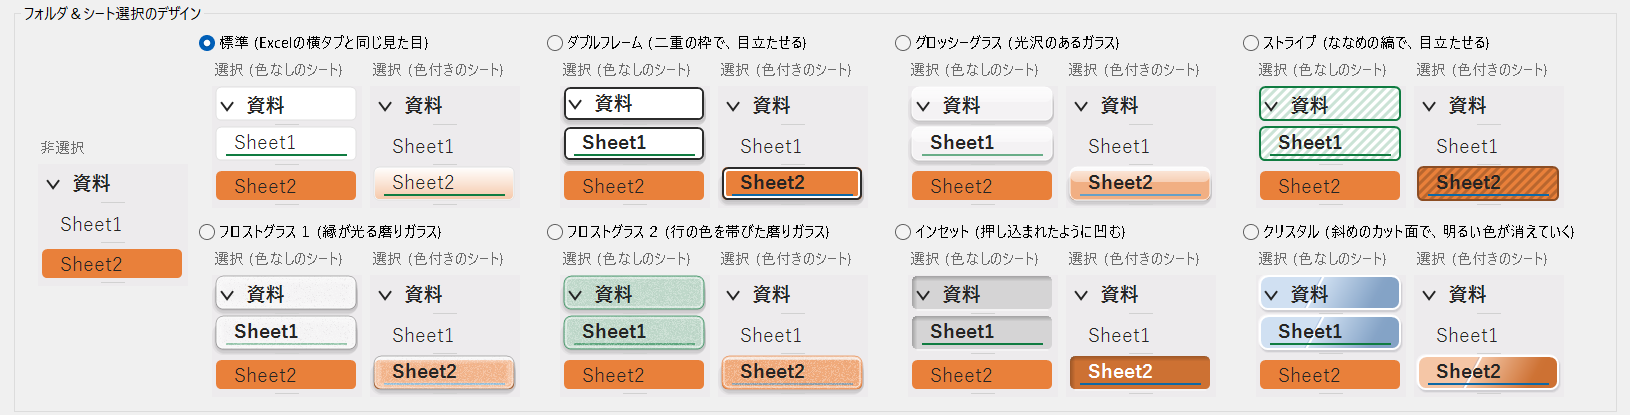
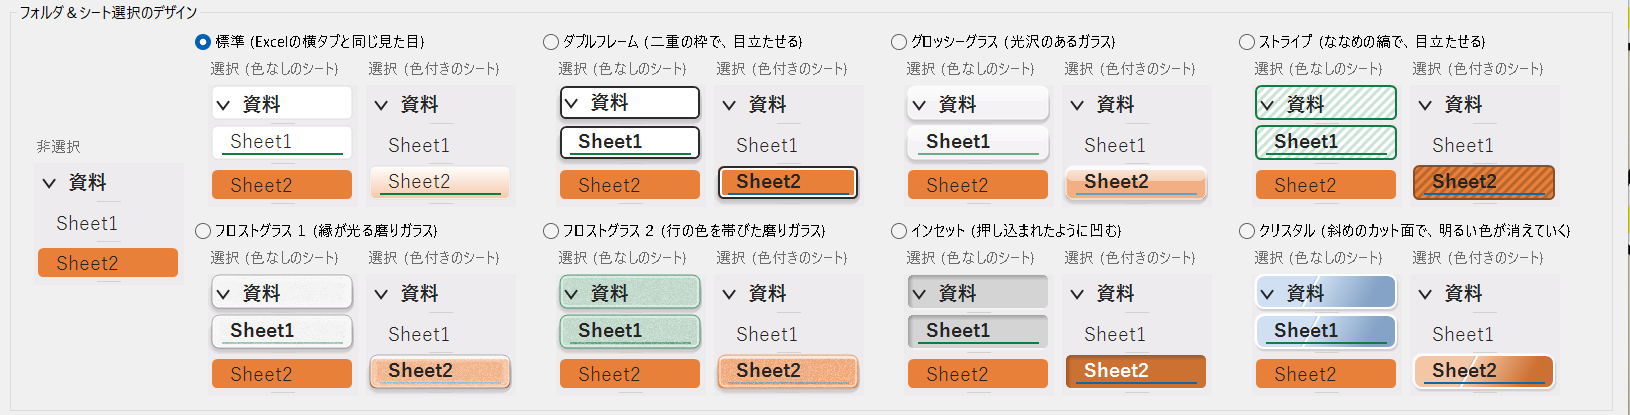
README.md を、いまのアドインの動作に合わせて直す、設定画面の画像を撮り直す

diff --git a/README.md b/README.md
@@ -8,9 +8,9 @@
 > 右がアドインを入れたExcel。12枚のシートが一目で見渡せ、「売上」「経費」のフォルダで整理され、シート見出しの色も、そのまま見えます。
 
 - **一覧できる** … シート名がずらりと縦に並ぶ。もう、横スクロールの矢印を何度も押さなくていい
-- **整理できる** … シートを**フォルダ**にまとめられる。並びは、Excelのシートの並びにも反映
+- **整理できる** … シートを**フォルダ**にまとめられる。並びは、Excelのシートの並びにも反映。縦タブの上端の「全開」「全閉」で、フォルダをまとめて開閉
 - **いつもの操作** … クリック、ドラッグ、Ctrl+ドラッグでコピー、右クリックメニュー、シート見出しの色まで、横タブと同じ
-- **選べる見た目** … 8つの選択デザインと、5つのアクティブシートの印。ガラスのような透け感の選択表示も
+- **選べる見た目** … 8つの選択デザインと、5つのアクティブシートの印。ガラスのような透け感の選択表示も。選んだシートや、開閉したフォルダが、ぷるっと揺れるアニメーションも (初期値は、なし)
 - **ブックごとに設定** … 縦タブを使うブックだけ、使える。設定は、ブックと一緒に保存される
 
 開発の経緯、仕様、検証結果は、ソースのリポジトリの `Agents.md` に、ビルドやインストーラの作成 (開発者向け) は、`DEVELOPMENT.md` にまとめています。
@@ -50,9 +50,9 @@
 |---|---|
 | **表示モード** | 横タブだけ / 縦タブだけ / 両方 ([1.3](#13-表示モードで画面がこう変わる)) |
 | **縦タブの位置** | 画面の左 / 右 |
-| **開閉したフォルダ＆選択したシートのアニメーション** | シートを選ぶと、そのシートが揺れる。フォルダを開閉すると、そのフォルダも同じように揺れる (開いたときは、中のシートも一斉に揺れる)。6種類の動き (シェイク / ウォブル / ジェリー / バウンス / パルス / スイング) とランダム、揺れの大きさと長さを選べる (初期値は、なし) |
-| **アクティブシートのマーカー表示** | 今開いているシートの印。下線 / 三角 / 両端バー / なし ([1.5](#15-選択中のフォルダとシートの見た目を選ぶ)) |
+| **アクティブシートのマーカー表示** | 今開いているシートの印。下線 / 三角 / 両端バー / チェックバッジ / なし ([1.5](#15-選択中のフォルダとシートの見た目を選ぶ)) |
 | **フォルダ＆シート選択のデザイン** | 選択中のフォルダとシートの見た目を、8種類から。**サンプルが、その場で見える** ([1.5](#15-選択中のフォルダとシートの見た目を選ぶ)) |
+| **開閉したフォルダ＆選択したシートのアニメーション** | シートを選ぶと、そのシートが揺れる。フォルダを開閉すると、そのフォルダも同じように揺れる (開いたときは、中のシートも一斉に揺れる)。6種類の動き (シェイク / ウォブル / ジェリー / バウンス / パルス / スイング) とランダム、揺れの大きさと長さを選べる (初期値は、なし。[8章](#8-設定画面)) |
 | **フォルダを囲む点線** | 開いたフォルダを囲む点線の、表示 / 非表示と、色の濃さ (9段階) |
 | **シート名のルール** | 「フォルダ名 \| シート名」の名前で、フォルダを自動で作る ([1.6](#16-シート名だけでフォルダを共有する-シート名のルール)) |
 
@@ -83,6 +83,7 @@
 - フォルダにも**色**が付けられます。「中の全てを常にフォルダと同一色に設定」をONにすると、フォルダの色が、中のシートにも広がり、新しく入ったシートにも、自動で付きます
 - 「フォルダ内のシートをすべて選択」で、フォルダ内のシートを、グループ選択。そのまま、まとめて保護、移動、コピーができます
 - フォルダの順序は、Excelのシートの並びにも反映されます (横タブでも、同じ順に並びます)
+- フォルダが**1つでもある**と、縦タブの上端に「**全開**」「**全閉**」のボタンが出ます。押すと、すべてのフォルダが、まとめて開く / 閉じます。フォルダが無くなると、ボタンも消えます
 
 ### 1.5 選択中のフォルダとシートの見た目を選ぶ
 
@@ -92,20 +93,20 @@
 
 | 選択デザイン | 特長 |
 |---|---|
-| **標準** | Excelの横タブと同じ見た目 (白い塗りと緑の下線) |
+| **標準** | Excelの横タブと同じ見た目 (白い塗り。下線マーカーのときは、アクティブなシートに緑の下線) |
 | **ダブルフレーム** | 暗い外枠と白い内枠の二重の枠と、影。くっきり目立つ |
 | **グロッシーグラス** | 上半分に反射の帯がある、光沢のあるガラス |
 | **フロストグラス1** | 縁が内側から光る、磨りガラス |
 | **フロストグラス2** | 行の色を帯びた、磨りガラス |
 | **インセット** | 押し込まれたように凹んで見える |
-| **ストライプ** | ななめの縞と、緑の枠 (色付きの行は、白い縞と、濃い枠) |
+| **ストライプ** | ななめの縞と、緑の枠 (色付きの行は、その色の濃い枠。縞は、明るい色の行では暗い縞、暗い色の行では白い縞) |
 | **クリスタル** | 斜めのカットで、明るい面と濃い面に分かれ、明るい色が右へ消えていく。柔らかい影つき |
 
 さらに、**今、内容が表示されているシート (アクティブなシート)** の印も、5種類から選べます。どの選択デザインとも組み合わせられます。
 
 ![5つのマーカー: 下線、三角、両端バー、チェックバッジ、なし](docs/images/markers.png)
 
-> 三角や帯の色は、その行の色の**反対色**で、白い縁取りとぼかしが付くので、暗い背景でも、色付きの行でも、見失いません。
+> 三角や帯の色は、その行の色の**反対色**で、白い縁取りとぼかしが付くので、暗い背景でも、色付きの行でも、見失いません。マーカーの色が、その行の色に近くて見分けにくいときは、見分けやすい色に自動で調整されます。マーカーが付くのは、アクティブなシートだけです (フォルダと、グループ選択のほかのシートには付きません)。
 
 設定画面のこの部分で、サンプルを見ながら選べます (サンプルをクリックしても選べます)。
 
@@ -139,7 +140,7 @@
 | 複数のシートを選ぶ | Ctrl+クリック、Shift+クリック |
 | シートをフォルダに入れる | 選んで、右クリック > 「新しいフォルダ」。または、既存のフォルダへドラッグ |
 | フォルダを開閉する | 行の先頭の `>` / `∨` |
-| 全フォルダを開閉する | フォルダの右クリック > 「全てのフォルダを閉じる / 開く」 |
+| 全フォルダを開閉する | 縦タブの上端の「全開」「全閉」ボタン (フォルダが1つ以上あるとき)、または、フォルダの右クリック > 「全てのフォルダを閉じる / 開く」 |
 | 見た目を変える | 「タブ表示の設定」の「選択デザイン」「マーカー」 |
 | 横タブに戻す | 縦タブの「×」、または、表示モードを「横タブのみ」に |
 
@@ -151,12 +152,13 @@
 |---|---|
 | 縦タブの表示 | シートを縦に並べて表示 / 左右どちらにも配置 / ペインの幅をドラッグで変更 (保存される) / シートが多いときは縦スクロール / 長い名前は「…」で省略、ポインターを乗せると全体を表示 |
 | 表示モード | 横タブのみ / 縦タブのみ / 両方 (ブックごとに選択) |
-| 見た目 | Excelの横タブと同じ色、形、シート見出しの色。選択中のフォルダとシートの見た目は、設定画面で、「標準」(Excelの横タブと同じ。白い塗りと薄い枠、アクティブなシートに緑の下線)、「ダブルフレーム」、「グロッシーグラス」(上半分に反射の帯がある、光沢のあるガラスを重ねる)、「フロストグラス１」(縁が内側から光る磨りガラスを、行の上に重ねる)、「フロストグラス２」(行の色 (色なしの行は緑) を帯びた磨りガラスを重ねる)、「インセット」(押し込まれたように凹んで見える)、「ストライプ」(ななめの縞と枠)、「クリスタル」(斜めのカット面と、消えていく明るい色) から選べる (初期値は、標準)。ガラスの選択肢では、行の色や区切り線が、ガラス越しに透けて見える。ダブルフレームでは、選択中の行は、(色付きは、元の色のまま) 影が付き、暗い外枠と白い内枠の二重の枠で囲まれ、文字が太字になる。シートの内容が表示されている、アクティブなシートの印 (マーカー) は、設定画面の「アクティブシートのマーカー表示」で、下線マーカー (名前の下に線)、三角マーカー (左右の端に小さな三角)、両端バーマーカー (左右の端に太い帯)、チェックバッジマーカー (名前の左に丸いチェック)、マーカーなし から選べ (初期値は、下線マーカー)、どの選択デザインとも組み合わせて表示される (フォルダと、グループの、ほかのシートには付かない)。三角は、その行の色の反対色 (色相環で、最も色差が大きい色) で、白い縁取りとぼかしが付き、暗い背景や暗い色の行でも見える。Officeテーマ (カラフル、白、黒、ダークグレー) と画面の拡大率に対応 |
+| 見た目 | Excelの横タブと同じ色、形、シート見出しの色。選択中のフォルダとシートの見た目は、設定画面で、「標準」(Excelの横タブと同じ。白い塗りと薄い枠、アクティブなシートに緑の下線)、「ダブルフレーム」、「グロッシーグラス」(上半分に反射の帯がある、光沢のあるガラスを重ねる)、「フロストグラス１」(縁が内側から光る磨りガラスを、行の上に重ねる)、「フロストグラス２」(行の色 (色なしの行は緑) を帯びた磨りガラスを重ねる)、「インセット」(押し込まれたように凹んで見える)、「ストライプ」(ななめの縞と枠)、「クリスタル」(斜めのカット面と、消えていく明るい色) から選べる (初期値は、標準)。ガラスの選択肢では、行の色や区切り線が、ガラス越しに透けて見える。ダブルフレームでは、選択中の行は、(色付きは、元の色のまま) 影が付き、暗い外枠と白い内枠の二重の枠で囲まれ、文字が太字になる。シートの内容が表示されている、アクティブなシートの印 (マーカー) は、設定画面の「アクティブシートのマーカー表示」で、下線マーカー (名前の下に線)、三角マーカー (左右の端に小さな三角)、両端バーマーカー (左右の端に太い帯)、チェックバッジマーカー (名前の左に丸いチェック)、マーカーなし から選べ (初期値は、下線マーカー)、どの選択デザインとも組み合わせて表示される (フォルダと、グループの、ほかのシートには付かない)。三角は、その行の色の反対色 (色相環で、最も色差が大きい色) で、白い縁取りとぼかしが付き、暗い背景や暗い色の行でも見える。マーカーの色が、行の色に近いときは、色差が大きくなるように、自動で調整される。Officeテーマ (カラフル、白、黒、ダークグレー) と画面の拡大率に対応 |
 | シートの操作 | 切り替え / 追加 (+) / 挿入 / 削除 / 名前の変更 / 移動 / コピー / 非表示 / 再表示 / シートの保護 / コードの表示 / シート見出しの色 |
 | 複数選択 | Ctrl+クリック、Shift+クリックで、グループ選択。グループのまま、移動、コピー、色の変更、非表示、削除 |
-| フォルダ | シートを1段のフォルダに分類 / 開閉 / 名前、色 / ドラッグで移動、コピー / フォルダごとの一括操作。並びは、横タブにも反映 |
+| フォルダ | シートを1段のフォルダに分類 / 開閉 / 名前、色 / ドラッグで移動、コピー / フォルダごとの一括操作 / 縦タブの上端の「全開」「全閉」ボタン (フォルダが1つ以上あるとき)。並びは、横タブにも反映 |
 | シート名のルール | 横タブのシート名「A &#124; B」を、縦タブでは、フォルダ A の中のシート B として表示 (使う/使わないを選択) |
-| 設定画面 | 表示モード、縦タブの位置、フォルダ＆シート選択のデザイン、シート名のルール、フォルダを囲む点線 (表示/非表示、色の濃さ) |
+| アニメーション | シートを選んだとき、フォルダを開閉したときに、その行が揺れる。6種類の動きとランダム、揺れの大きさ、長さ (ブックごとに選択。初期値は、なし) |
+| 設定画面 | 表示モード、縦タブの位置、アクティブシートのマーカー表示、フォルダ＆シート選択のデザイン、アニメーション、フォルダを囲む点線 (表示/非表示、色の濃さ)、シート名のルール |
 | 設定の保存 | ブックごとに保存して、次に開いたときに復元。ブックごとに独立 |
 
 横タブのシートの右クリックメニューにも、先頭に「タブ表示の設定」が加わります。
@@ -221,11 +223,11 @@ flowchart TD
 | Ctrl+クリック | シートを、グループ選択に追加 / 解除する |
 | Shift+クリック | アクティブなシートから、クリックしたシートまでを選択する |
 | ダブルクリック | シート名を、その場で編集する (Enterで確定、Escで取り消し) |
-| ドラッグ | シートを移動する (挿入位置に三角形が出る)。選択中のシートは、まとめて動く |
+| ドラッグ | シートを移動する (挿入位置に三角形が出る)。選択中のシートは、まとめて動く。1枚のシートを移動して離すと、そのシートがアクティブになる |
 | Ctrl+ドラッグ | シートをコピーする |
 | 右クリック | メニューを開く (下の表) |
 | ホイール | シートが多いとき、スクロールする |
-| 下端の「+」 | 新しいシートを、アクティブなシートの次に追加する |
+| 下端の「+」 | 新しいシートを、アクティブなシートの次に追加する (アクティブなシートがフォルダの中なら、そのフォルダの中に入る。選択しているシートが、すべて閉じたフォルダの中にあるときは、いちばん下に追加する) |
 
 ### 5.2 キー操作
 
@@ -320,6 +322,10 @@ flowchart LR
 
 開いたフォルダは、中のシートと一緒に、点線で囲まれます (右上と左下の角が欠けた形です)。点線の表示 / 非表示と、色の濃さは、設定画面で変えられます。
 
+### 6.5 「全開」「全閉」ボタン
+
+フォルダが**1つ以上**あるとき、縦タブの上端 (ペインのタイトルバーの下) に、「全開」「全閉」の2つのボタンが出ます。「全開」を押すと、すべてのフォルダが開き、「全閉」を押すと、すべてのフォルダが閉じます (フォルダの右クリックメニューの「全てのフォルダを開く / 閉じる」と同じです)。フォルダがすべて無くなると、ボタンは消えます。シートが多くてスクロールするときも、ボタンは上に残り、シートの行だけが動きます。
+
 ## 7. シート名のルール
 
 横タブしか使わない人や、他の人とブックを共有する人でも、**シート名だけでフォルダの構成を共有できる**機能です。設定画面で「シート名のルールを使う」にチェックしたブックだけで、有効になります (初期値は、使わない)。
@@ -379,12 +385,15 @@ flowchart LR
 |---|---|---|
 | 表示モード | 横タブのみ / 縦タブのみ / 両方 | 横タブ、縦タブの表示を選ぶ |
 | 縦タブの位置 | 左 / 右 | 縦タブのペインを置く側 (「横タブのみ」のときは選べません) |
-| 開閉したフォルダ＆選択したシートのアニメーション | なし / 1 シェイク / 2 ウォブル / 3 ジェリー / 4 バウンス / 5 パルス / 6 スイング / 7 ランダム (横に並ぶ) と、揺れの大きさ (40から200%)、揺れの長さ (0.3から1.2秒) のスライダー | シートを選んだとき、そのシートが、フォルダを開閉したとき、そのフォルダが揺れる。サンプルは1つで、選んだ動きを繰り返す (ランダムのときは、毎回、違う動き)。初期値は、なし |
 | アクティブシートのマーカー表示 | 下線マーカー / 三角マーカー / 両端バーマーカー / チェックバッジマーカー (名前の左に丸いチェック) / マーカーなし (横に並ぶ) | アクティブなシートの印。選んだマーカーは、下の選択デザインのサンプルにも、すぐ反映される。初期値は、下線マーカー |
 | フォルダ＆シート選択のデザイン | 標準 / ダブルフレーム / グロッシーグラス / ストライプ / フロストグラス１ / フロストグラス２ / インセット / クリスタル | 選択中のフォルダとシートの見た目。8つの選択肢が、横4 x 縦2 に並ぶ。左端に、非選択のサンプルが1つ (2段の中央)、各選択肢には、選択 (色なしのシート) と選択 (色付きのシート) のサンプルが出る (サンプルをクリックしても選べる)。初期値は、標準 |
-| シート名のルール | 使う | [7章](#7-シート名のルール) |
+| 開閉したフォルダ＆選択したシートのアニメーション | なし / 1 シェイク / 2 ウォブル / 3 ジェリー / 4 バウンス / 5 パルス / 6 スイング / 7 ランダム (横に並ぶ) | シートを選んだとき、そのシートが、フォルダを開閉したとき、そのフォルダが揺れる (フォルダを開いたときは、中の見えているシートも一斉に揺れる)。7 ランダムは、そのたびに、1から6のどれかを選ぶ。初期値は、なし |
+| | 揺れの大きさ (40から200%)、揺れの長さ (0.3から1.2秒) のスライダー | 初期値は、100%、0.6秒。右の「揺れのリセット」ボタンで、初期値に戻る (「なし」のときは、スライダーとボタンは使えません) |
+| | サンプル | 左端に、揺れるシートが1つ。選んだ動きを、繰り返し見せる (ランダムのときは、毎回、違う動き) |
+| | 選択したデザインとマーカー表示の見た目にする | チェックを入れると、サンプルが、いま選んでいる選択デザインとマーカー表示で描かれる (入れないときは、標準と下線マーカー)。この状態は、保存されません |
 | フォルダを囲む点線 | 点線を表示する | 開いたフォルダの点線の ON / OFF |
 | | 色 (1から9) | 点線の色。右にいくほど、縦タブの背景から離れた、はっきりした色 |
+| シート名のルール | 使う | [7章](#7-シート名のルール)。「フォルダを囲む点線」の右に、並んでいます |
 
 画面の左下に、バージョン、著作権、ライセンスが表示されます。
 
@@ -429,7 +438,7 @@ flowchart TD
 | グラフシートとフォルダ | グラフシートは、名前でフォルダに結びつけています。Excel側で名前を変えると、フォルダから外れます |
 | 横タブからの「挿入」 | Excel標準の横タブの右クリックからの「挿入」では、シート名のルールを使っていても、フォルダの中には入りません (縦タブの「挿入」を使ってください) |
 | 縦タブにフォーカスがあるとき | Ctrl+S、F12 は使えますが、Ctrl+Z、Ctrl+P など、他のExcelのショートカットは、使えません。シートのセルをクリックしてから使ってください |
-| 多数のシート | 1000枚のブックでも動作しますが、フォルダのあるブックは、シート名の並びが変わるたびに、全シートの識別を読み直すため、300枚で約1秒かかります |
+| 多数のシート | 1000枚のブックでも動作します (縦タブの更新の処理は、1回あたり約30ミリ秒です)。フォルダのあるブックは、シート名の並びが変わるたびに、全シートの識別を読み直しますが、1000枚でも、約20ミリ秒です |
 | 配布 | 自己署名の証明書です。他のPCにインストールするときは、証明書を信頼する必要があります (3章) |
 
 不具合や要望は、状況 (ブックを開いた方法、拡大率、Excelのバージョン、操作の順序) を添えて、連絡してください。

diff --git a/Agents.md b/Agents.md
@@ -2084,3 +2084,9 @@ gitGraph
 
 - ユーザーの要望により、12.151 の「全開」「全閉」ボタンの表示条件を、「フォルダが2つ以上」から「フォルダが1つ以上」に変えた (`TabStrip.ShowAllButtons`)。フォルダを1つ作ると、ボタンが出て、フォルダが、すべて無くなったときに、ボタンが消える。ボタンの見た目、動作は、12.151 のまま
 - 確認: 縦タブの部品を、単独の画面に置いて、フォルダの数を、2、1、0、3 と変えると、0 のときだけ、帯が出ない (1 のときも、出る)
+
+### 12.154 見直し: README.md を、いまのアドインの動作に合わせる
+
+- ユーザーの依頼により、`README.md` を、先頭から末尾まで読み、いまのアドインの動作 (12章の記録と、ソース) と、食い違うところを、アドインの動作を正として、直した
+- 直した点: (1) 設定画面の項目の並び (表示モード、位置、アクティブシートのマーカー、選択デザイン、アニメーション、点線とシート名のルール) を、実際の画面に合わせた。(2) アクティブシートのマーカーの選択肢に、「チェックバッジ」が抜けていた (1.2)。(3) アニメーションの設定 (サンプル、スライダー、「揺れのリセット」、「選択したデザインとマーカー表示の見た目にする」) を、8章に書いた。(4) 「全開」「全閉」ボタン (フォルダが1つ以上のとき。12.151、12.153) を、1.4、1.8、2章、6.5 に書いた。(5) 標準の緑の下線は、下線マーカーのときだけ、ストライプの縞は、明るい色の行で暗い縞、マーカーの色の自動調整、マーカーはアクティブなシートだけ、を、1.5 と 2章に書いた。(6) シートを1枚ドラッグして移動すると、そのシートがアクティブになること (5.1)、「+」の追加位置 (5.1) を足した。(7) 10章の「多数のシート」の時間を、実測 (12.76) に直した (300枚で約1秒、は、PowerShell 経由の測定で、過大だった)
+- 画像: 設定画面の画像 (`docs/images/settings_full.png`、`settings_design.png`) を、いまの画面で撮り直した。`hero.png`、`modes.png`、`rule.png` など、フォルダのある縦タブが写っている画像は、「全開」「全閉」ボタンが出る前に撮ったもので、撮り直していない (ボタンの帯が写っていない)
